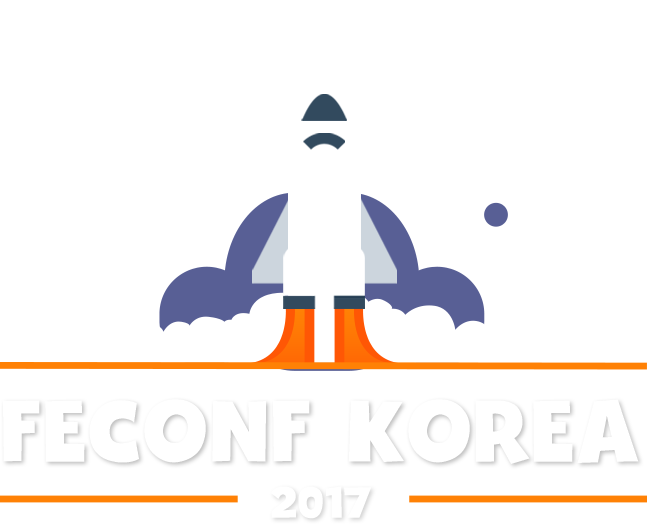
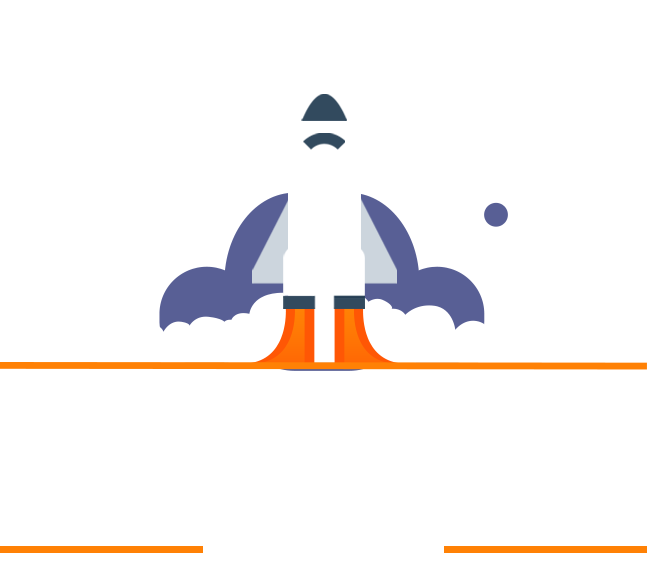
Write index page

diff --git a/pages/index.js b/pages/index.js
@@ -1,18 +1,122 @@
 import React from 'react';
 import Head from 'next/head';
+import moment from 'moment';
 import data from '../data';
+import Section from '../components/Section';
+import Placard from '../components/Placard';
+import Countdown from '../components/Countdown';
+import SpeakerCard from '../components/SpeakerCard';
+import SpeakerCardList from '../components/SpeakerCardList';
+import Schedule from '../components/Schedule';
 
-const {subject} = data;
+const {subject, event, introduction, speakers, schedule, location, sponsors} = data;
 
 const IndexPage = (props) => (
     <div className="wrap index">
         <Head>
-            <title>{subject}</title>
-            <meta name="description" content=""/>
-            <meta name="keywords" content=""/>
+            <title>Welcome to FEConf 2017 - FEConf Korea</title>
+            <meta name="description" content="FEConf 2017 컨퍼런스 행사의 일정 및 스피커 그리고 각 세션을 소개합니다. 올해 처음 열리는 FEConf! 많은 관심과 성원 부탁드립니다."/>
+            <meta name="keywords" content="프론트엔드,프론트엔드개발자,프론트엔드개발자그룹,개발자,프로그래머,마크업,디자이너,컨퍼런스,이벤트,서울,마루180,FrontEnd,Developer,Programmer,Markup,Designer,Conference,Event,Seoul,MARU180"/>
         </Head>
         <div className="index__inner">
-            <h1 className="index__title">{subject}</h1>
+            <header className="index__hero">
+                <Section tag="div">
+                    <h1 className="index__title blind">{event.title}</h1>
+                    <Countdown eventTime={moment(event.time).unix()}/>
+                    <div className="index__hero-bg">
+                        <img
+                            className="index__image index__image--hero"
+                            src="../static/img/img-hero.png"
+                            aria-hidden="true"
+                        />
+                        <img
+                            className="index__image index__image--astronaut"
+                            src="../static/img/img-astronaut.png"
+                            aria-hidden="true"
+                        />
+                    </div>
+                </Section>
+            </header>
+            <div className="index__introduction">
+                <Placard title={introduction.title} subTitle={introduction.subTitle}>
+                    <div dangerouslySetInnerHTML={{__html: introduction.message}}/>
+                </Placard>
+            </div>
+            <div className="index__speakers">
+                <Section title={speakers.title} subTitle={speakers.subTitle}>
+                    <SpeakerCardList>
+                        {speakers.list.map((speaker, index) =>
+                            <SpeakerCard
+                                key={index}
+                                picture={speaker.picture}
+                                name={speaker.name}
+                                company={speaker.company}
+                                desc={speaker.desc}
+                            />
+                        )}
+                    </SpeakerCardList>
+                </Section>
+            </div>
+            <div className="index__schedule">
+                <Section title={schedule.title} subTitle={schedule.subTitle}>
+                    <div className="index__schedule-bg">
+                        <img
+                            className="index__image index__image--meteor"
+                            src="../static/img/img-meteor.png"
+                            aria-hidden="true"
+                        />
+                        <img
+                            className="index__image index__image--astronaut2"
+                            src="../static/img/img-astronaut2.png"
+                            aria-hidden="true"
+                        />
+                    </div>
+                    <Schedule schedule={schedule.list}/>
+                </Section>
+            </div>
+            <div className="index__location">
+                <Placard title={location.title} subTitle={location.subTitle}>
+                    <p className="index__place">MARU180</p>
+                    <p className="index__spot">@Gangnam</p>
+                    <p className="index__addr">서울 강남구 역삼로 180(역삼동, 790-6)</p>
+                </Placard>
+            </div>
+            <div className="index__maps">
+                <iframe
+                    className="index__google-map"
+                    src="https://www.google.com/maps/embed?pb=!1m18!1m12!1m3!1d3165.5270264947103!2d127.03654695071153!3d37.49548623585291!2m3!1f0!2f0!3f0!3m2!1i1024!2i768!4f13.1!3m3!1m2!1s0x357ca154dd9258e5%3A0xe0888095de7a04b0!2z66eI66OoMTgw!5e0!3m2!1sko!2skr!4v1504010513555"
+                    allowFullScreen
+                />
+            </div>
+            <div className="index__sponsors">
+                <Section title={sponsors.title} subTitle={sponsors.subTitle}>
+                    <ul className="index__sponsor-list">
+                        <li className="index__sponsor-item">
+                            <img
+                                className="index__image"
+                                src="../static/img/logo-lezhin.png"
+                                alt="레진엔터테인먼트 대표 이미지"
+                            />
+                            <span className="blind">레진엔터테인먼트</span>
+                        </li>
+                        <li className="index__sponsor-item">
+                            <img
+                                className="index__image"
+                                src="../static/img/logo-naver.png"
+                                alt="네이버 대표 이미지"
+                            />
+                            <span className="blind">네이버</span>
+                        </li>
+                    </ul>
+                </Section>
+            </div>
+            <footer className="index__footer">
+                <img
+                    className="index__image index__image--feconf"
+                    src="../static/img/logo-feconf.png"
+                    alt="FEConf 2017 대표 이미지"
+                />
+            </footer>
         </div>
     </div>
 );

diff --git a/scss/pages/_index.scss b/scss/pages/_index.scss
@@ -10,4 +10,171 @@ $module: "index";
     &__inner {
         position: relative;
     }
+
+    &__hero {
+        padding-bottom: 190px;
+        .countdown {
+            margin: 0 auto;
+        }
+    }
+
+    &__hero-bg {
+        position: relative;
+        max-width: 687px;
+        margin: 110px auto 0;
+        padding: 0 20px;
+    }
+
+    &__introduction {
+        .placard__card {
+            position: absolute;
+            top: -204px;
+        }
+    }
+
+    &__speakers {
+        background: $bg-gray;
+        padding-top: 204px;
+    }
+
+    &__schedule {
+        padding-bottom: 140px;
+        .section__title {
+            color: $white;
+        }
+    }
+
+    &__location {
+        line-height: 1;
+        p {line-height: 1}
+        .placard__inner {z-index: 2}
+        .placard__card {
+            position: absolute;
+            width: 680px;
+            top: -136px;
+            right: 0;
+        }
+    }
+
+    &__place {
+        font-size: 47px;
+        font-weight: 700;
+        margin: 0;
+    }
+
+    &__spot {
+        font-size: 20px;
+        color: $light-blue;
+        line-height: 1;
+        margin: 14px 0 0;
+    }
+
+    &__addr {
+        font-size: 19px;
+        font-weight: 400;
+        margin: 19px 0 0;
+    }
+
+    &__maps {
+        position: relative;
+        width: 100%;
+        padding-bottom: 56.25%;
+    }
+
+    &__google-map {
+        position: absolute;
+        top: 0;
+        left: 0;
+        width: 100%;
+        height: 100%;
+        border: 0;
+    }
+
+    &__sponsors {
+        background: $bg-gray;
+    }
+
+    &__sponsor-list {
+        margin: 0;
+        padding: 0;
+        list-style: none;
+        font-size: 0;
+        text-align: center;
+    }
+
+    &__sponsor-item {
+        display: inline-block;
+        padding: 10px;
+    }
+
+    &__footer {
+        padding: 60px 0 40px;
+        text-align: center;
+    }
+
+    &__image {
+        width: 100%;
+        &--hero {
+            max-width: 687px;
+        }
+        &--meteor {
+            position: absolute;
+            max-width: 228px;
+            right: 58px;
+            bottom: 180px;
+        }
+        &--astronaut {
+            position: absolute;
+            left: -60px;
+            top: 0;
+            padding-top: 13.910355%;
+            width: 62px;
+            padding-left: 20px;
+            transform: translate3d(0,0);
+            animation: move 3s ease infinite alternate;
+        }
+        &--astronaut2 {
+            position: absolute;
+            right: 0;
+            bottom: 700px;
+            width: 49px;
+            transform: translate3d(0,0);
+            animation: move 3s ease infinite alternate;
+        }
+        &--feconf {
+            max-width: 226px;
+        }
+    }
+
+    @media (max-width: 1024px) {
+        &__hero,
+        &__speakers,
+        &__schedule {padding: 0}
+        &__introduction .placard__card,
+        &__location .placard__card {
+            position: static;
+            width: 100%;
+        }
+        &__image--astronaut2 {right: 20px}
+    }
+
+    @media (max-width: 767px) {
+        &__image--astronaut {left: 0}
+    }
+
+    @media (max-width: 414px) {
+        &__hero-bg {margin-top: 55px}
+        &__image--meteor {right: 20px}
+        &__image--astronaut {width: 52px}
+        &__image--astronaut2 {width: 39px}
+    }
+    @media (max-width: 320px) {
+        &__image--astronaut {width: 42px}
+        &__maps {padding-bottom: 100%}
+    }
+}
+
+@keyframes move {
+    from {transform: translateY(30px)}
+    to {transform: translateY(0)}
 }

diff --git a/components/Section/Section.js b/components/Section/Section.js
@@ -1,32 +1,37 @@
 import React from 'react';
 import PropTypes from 'prop-types';
 
-const Section = ({className, style, title, subTitle, children}) => (
-    <section className={`section ${className}`} style={style}>
+const Section = ({className, style, tag, title, subTitle, children}) => (
+    React.createElement(tag, {
+        className: `section ${className}`,
+        style
+    }, (
         <div className="section__inner">
             {title || subTitle ?
                 <div className="section__header">
                     {title ? <h2 className="section__title">{title}</h2> : null}
                     {subTitle ? <p className="section__sub-title">{subTitle}</p> : null}
                 </div>
-            : null}
+                : null}
             <div className="section__body">
                 {children}
             </div>
         </div>
-    </section>
+    ))
 );
 
 Section.propTypes = {
     className: PropTypes.string,
     style: PropTypes.object,
+    tag: PropTypes.string,
     title: PropTypes.string,
     subTitle: PropTypes.string
 };
 
 Section.defaultProps = {
     className: '',
-    style: {}
+    style: {},
+    tag: 'section'
 };
 
 export default Section;

diff --git a/pages/_document.js b/pages/_document.js
@@ -9,7 +9,7 @@ class FEConfDocument extends Document {
 
     render () {
         return (
-            <html>
+            <html lang="ko">
                 <Head>
                     <meta name="viewport" content="width=device-width, user-scalable=no, initial-scale=1.0, maximum-scale=1.0, minimum-scale=1.0"/>
                     <meta httpEquiv="X-UA-Compatible" content="ie=edge"/>

diff --git a/data.js b/data.js
@@ -1,5 +1,4 @@
 export default {
-    subject: 'Welcome to FEConf 2017 - 2017 FEConf Korea',
     event: {
         title: 'FECONF KOREA 2017',
         time: '2017-10-21 10:00:00'
@@ -116,5 +115,9 @@ export default {
     location: {
         title: '장소',
         subTitle: 'LOCATION'
+    },
+    sponsors: {
+        title: '스폰서',
+        subTitle: 'SPONSORS'
     }
 };
